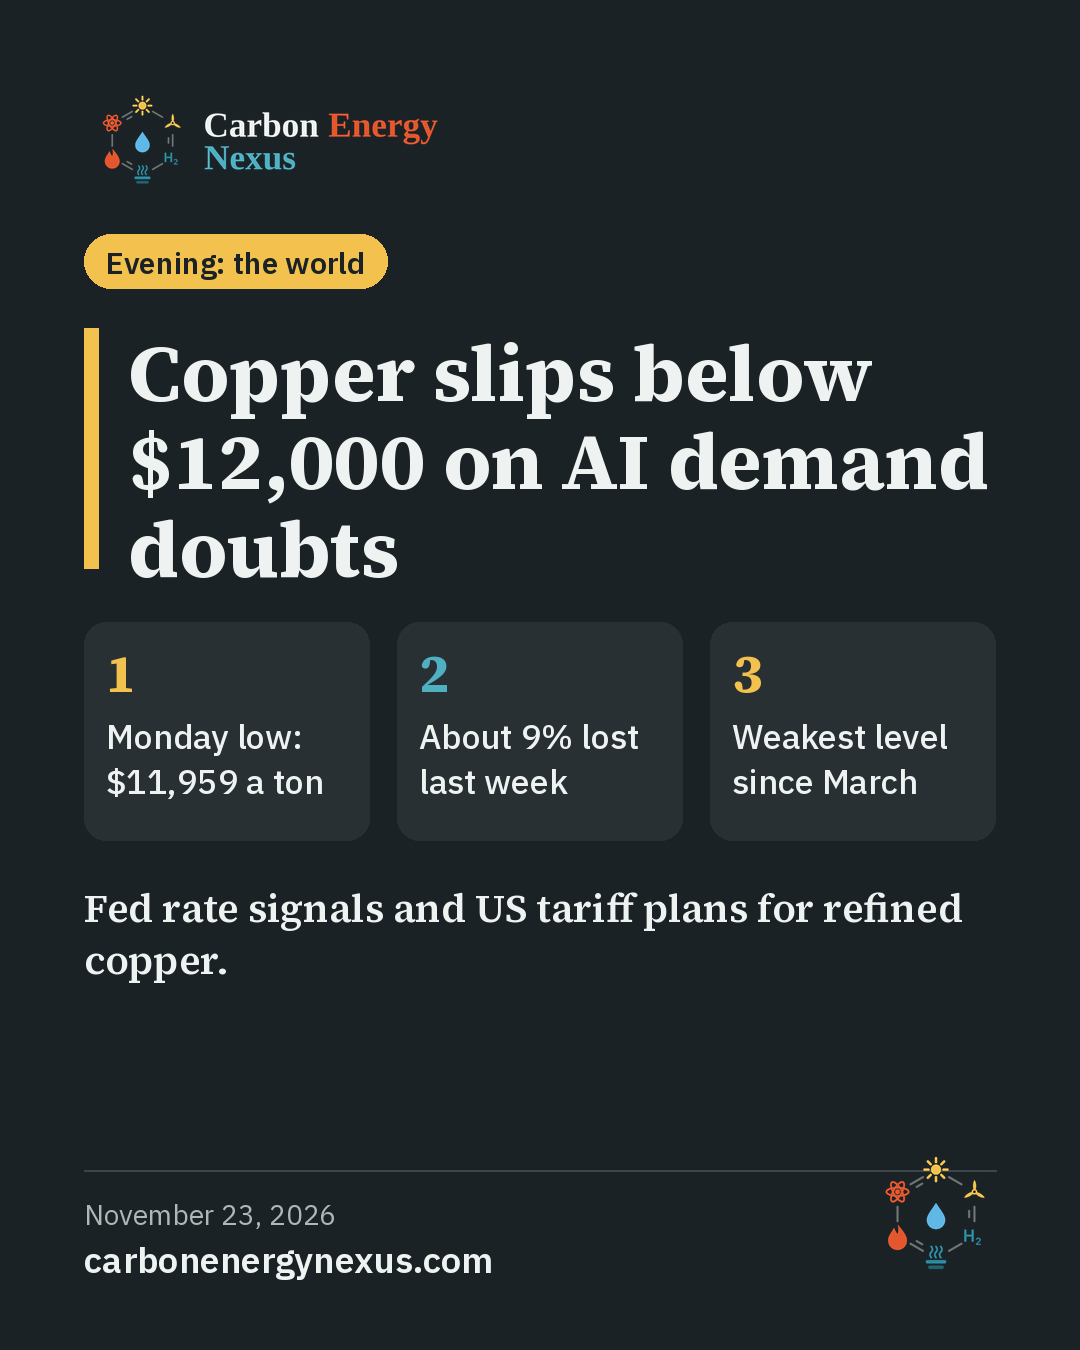
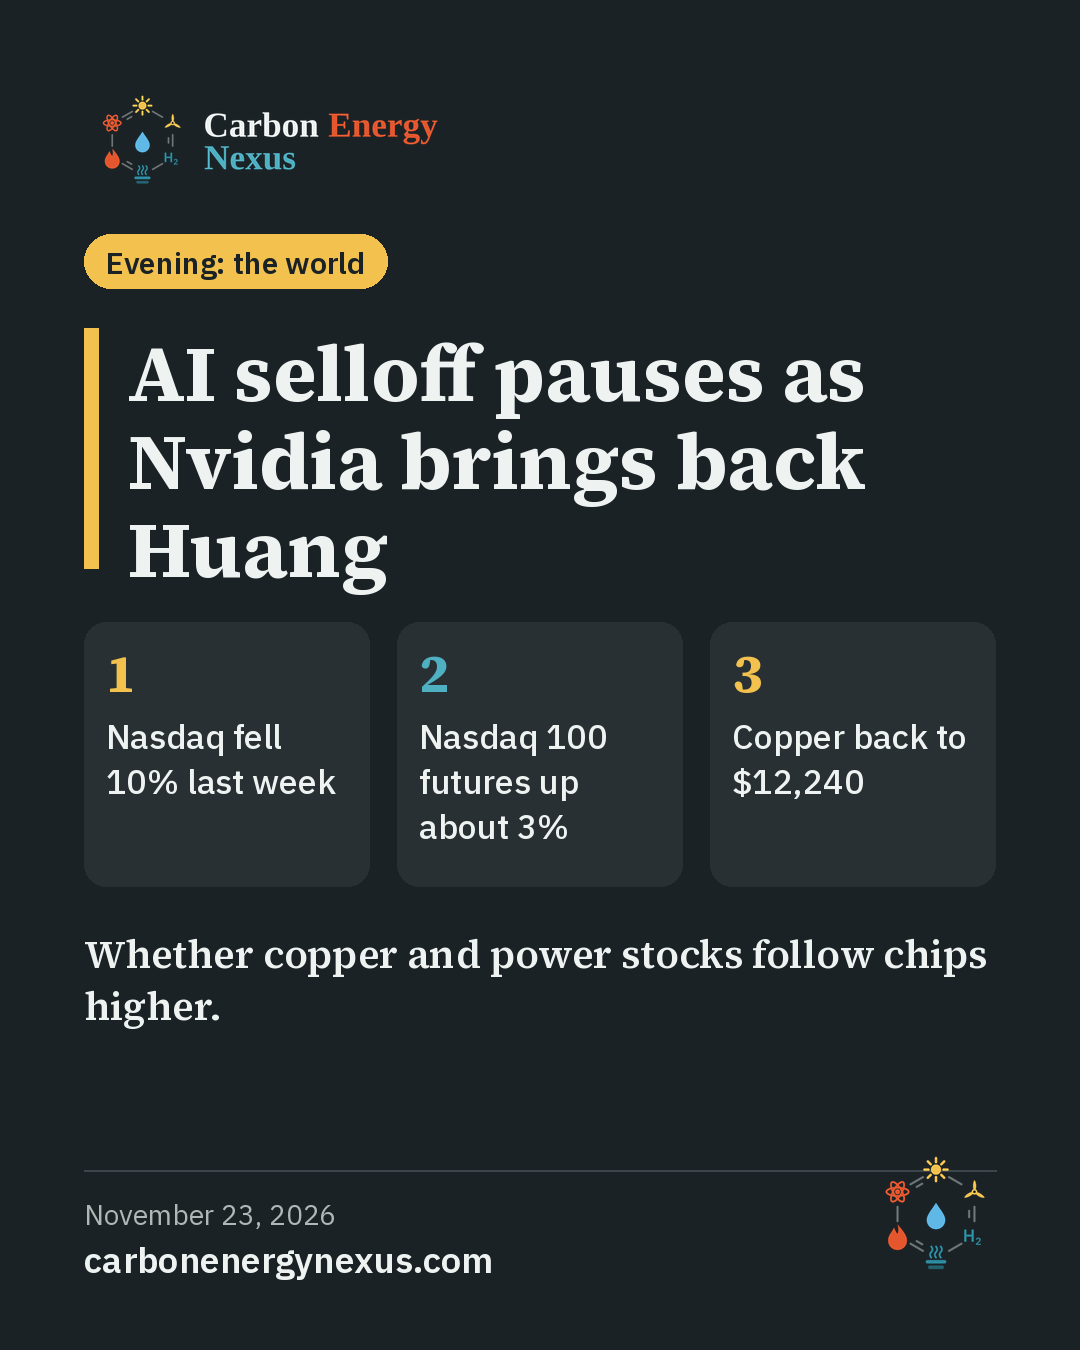
Nov 23 update: AI selloff pauses as Nvidia reinstates Huang; copper steadies; evening post
Claude-Session: https://claude.ai/code/session_01VeWbxxyf2Y2YHwziAL5TiY

diff --git a/index.html b/index.html
@@ -29,7 +29,7 @@
 <link rel="preload" href="assets/fonts/source-serif-4-latin-600-normal.woff2" as="font" type="font/woff2" crossorigin>
 <link rel="stylesheet" href="assets/style.css?v=a42ad177">
 
-<script type="application/ld+json">{"@context": "https://schema.org", "@graph": [{"@type": "NewsMediaOrganization", "@id": "https://carbonenergynexus.com/#org", "name": "Carbon Energy Nexus", "url": "https://carbonenergynexus.com/", "logo": {"@type": "ImageObject", "url": "https://carbonenergynexus.com/brand/cen-icon-512.png", "width": 512, "height": 512}, "description": "Sourced daily intelligence on carbon, energy, water and capital: projects, policy, markets and research.", "sameAs": ["https://www.facebook.com/profile.php?id=61596702510478", "https://www.instagram.com/carbonenergynexus/", "https://www.linkedin.com/company/carbonenergynexus/"]}, {"@type": "NewsArticle", "@id": "https://carbonenergynexus.com/#article", "headline": "COP31 ends without a deal, and its carbon capture and electrification goals fall with it", "description": "Two extra days in Antalya, but no cover decision. COP31 closed on Sunday after the EU and others rejected a text that named no fossil fuels, taking a draft 500 Mt a year capture goal and a 35% electrification target with it.", "url": "https://carbonenergynexus.com/", "mainEntityOfPage": "https://carbonenergynexus.com/", "image": ["https://carbonenergynexus.com/social/2026-11-23.png"], "datePublished": "2026-11-23T05:30:00-06:00", "dateModified": "2026-11-23T05:30:00-06:00", "inLanguage": "en-US", "isAccessibleForFree": true, "articleSection": ["Climate talks", "Capital", "Regulation", "Water", "Projects"], "author": {"@id": "https://carbonenergynexus.com/#org"}, "publisher": {"@id": "https://carbonenergynexus.com/#org"}}, {"@type": "WebSite", "@id": "https://carbonenergynexus.com/#site", "name": "Carbon Energy Nexus", "url": "https://carbonenergynexus.com/", "publisher": {"@id": "https://carbonenergynexus.com/#org"}, "inLanguage": "en-US"}]}</script>
+<script type="application/ld+json">{"@context": "https://schema.org", "@graph": [{"@type": "NewsMediaOrganization", "@id": "https://carbonenergynexus.com/#org", "name": "Carbon Energy Nexus", "url": "https://carbonenergynexus.com/", "logo": {"@type": "ImageObject", "url": "https://carbonenergynexus.com/brand/cen-icon-512.png", "width": 512, "height": 512}, "description": "Sourced daily intelligence on carbon, energy, water and capital: projects, policy, markets and research.", "sameAs": ["https://www.facebook.com/profile.php?id=61596702510478", "https://www.instagram.com/carbonenergynexus/", "https://www.linkedin.com/company/carbonenergynexus/"]}, {"@type": "NewsArticle", "@id": "https://carbonenergynexus.com/#article", "headline": "COP31 ends without a deal, and its carbon capture and electrification goals fall with it", "description": "Two extra days in Antalya, but no cover decision. COP31 closed on Sunday after the EU and others rejected a text that named no fossil fuels, taking a draft 500 Mt a year capture goal and a 35% electrification target with it.", "url": "https://carbonenergynexus.com/", "mainEntityOfPage": "https://carbonenergynexus.com/", "image": ["https://carbonenergynexus.com/social/2026-11-23.png"], "datePublished": "2026-11-23T05:30:00-06:00", "dateModified": "2026-11-23T05:30:00-06:00", "inLanguage": "en-US", "isAccessibleForFree": true, "articleSection": ["Climate talks", "Capital", "Markets", "Regulation", "Water", "Projects"], "author": {"@id": "https://carbonenergynexus.com/#org"}, "publisher": {"@id": "https://carbonenergynexus.com/#org"}}, {"@type": "WebSite", "@id": "https://carbonenergynexus.com/#site", "name": "Carbon Energy Nexus", "url": "https://carbonenergynexus.com/", "publisher": {"@id": "https://carbonenergynexus.com/#org"}, "inLanguage": "en-US"}]}</script>
 </head>
 <body>
 <a class="skip" href="#main">Skip to content</a>
@@ -84,7 +84,7 @@
    <div class="sig c1"><p class="sig-l">Electrification pledge</p><p class="sig-v">75+ countries</p><p class="sig-n">Voluntary 35% by 2035 goal, per the UN</p><p class="sig-s"><a href="https://abcnews.com/Technology/climate-conference-ends-signature-agreement-countries-clash-fossil/story?id=138359179" rel="noopener">ABC News, Nov 22, 2026</a></p></div>
    <div class="sig c2"><p class="sig-l">Loss and damage fund</p><p class="sig-v">$2.8bn asked</p><p class="sig-n">176 requests vs a $342m allocation</p><p class="sig-s"><a href="https://theplanetbrief.com/carbon/climate-policy/cop31-outcomes-antalya-pact-2026/" rel="noopener">The Planet Brief, Nov 22, 2026</a></p></div>
    <div class="sig c3"><p class="sig-l">US Senate permitting vote</p><p class="sig-v">62-33</p><p class="sig-n">S. 5653 passed Nov 19; House next</p><p class="sig-s"><a href="https://www.newson6.com/national-politics-oklahoma/senate-passes-permitting-reform-bill-just-as-its-chief-advocate-makes-for-the-exit" rel="noopener">NewsOn6, Nov 20, 2026</a></p></div>
-   <div class="sig c0"><p class="sig-l">LME copper, Monday low</p><p class="sig-v">$11,959/t</p><p class="sig-n">Weakest since March after a 9% week</p><p class="sig-s"><a href="https://www.investing.com/news/commodities-news/lme-copper-briefly-falls-below-12000-a-ton-as-tech-selloff-deepens-5044280" rel="noopener">Investing.com, Nov 22, 2026</a></p></div>
+   <div class="sig c0"><p class="sig-l">Nasdaq, last week</p><p class="sig-v">-10%</p><p class="sig-n">Worst week since March 2020; futures up ~3% Monday</p><p class="sig-s"><a href="https://finance.yahoo.com/markets/stocks/articles/us-futures-bounce-while-asia-234419517.html" rel="noopener">Reuters via Yahoo Finance, Nov 23, 2026</a></p></div>
    <div class="sig c1"><p class="sig-l">Southwest hydropower</p><p class="sig-v">-28%</p><p class="sig-n">Apr to Aug vs 10 year average, EIA</p><p class="sig-s"><a href="https://www.technologyreview.com/2026/11/17/1148742/hydropower-drought-colorado-river/" rel="noopener">MIT Technology Review, Nov 17, 2026</a></p></div>
   </div>
  </div>
@@ -102,6 +102,16 @@
     <dl class="use-sm"><div><dt>Investors</dt><dd>Permit certainty is the capital story. Watch whether the anti rescission clause survives the House.</dd></div><div><dt>Data center developers</dt><dd>Budget for full grid upgrade costs in US sites if this becomes law.</dd></div></dl>
    </div>
    <p class="src">Sources: <a href="https://www.naco.org/news/us-senate-passes-bipartisan-american-affordability-and-jobs-act" rel="noopener">NACo, Nov 20, 2026</a>; <a href="https://www.newson6.com/national-politics-oklahoma/senate-passes-permitting-reform-bill-just-as-its-chief-advocate-makes-for-the-exit" rel="noopener">NewsOn6, Nov 20, 2026</a>; <a href="https://dakotafreepress.com/2026/11/20/senate-approves-permitting-reform-bill-heads-to-house-for-debate/" rel="noopener">Dakota Free Press, Nov 20, 2026</a></p>
+  </article>
+  
+  <article class="brief" id="markets">
+   <p class="lane"><span class="chip lane-markets">Markets</span></p>
+   <h3>AI selloff pauses as Nvidia reinstates Jensen Huang; copper steadies</h3>
+   <div class="brief-body">
+    <p>Nvidia&#39;s board unanimously reinstated Jensen Huang as president and CEO on Nov 23, effective immediately, saying it had received input from senior levels of the US government and was confident the move poses no national security risk; an independent committee&#39;s investigation continues, the company said. Markets had already turned: Nvidia traded 8.69% higher before the open at 6:35 a.m. ET, and S&amp;P 500 futures were up about 2.3% and Nasdaq 100 futures about 3% after the Nasdaq fell 10% last week, its worst week since March 2020. Reuters noted that data center spending has been mostly borrowed, and that the selloff reached electricity generators as well as chipmakers. LME copper, which slid below $12,000 early Monday, was up 0.66% at $12,240.50 a ton by 03:30 GMT. Taiwan tightened short selling rules and Chinese exchanges eased margin requirements.</p>
+    <dl class="use-sm"><div><dt>Investors</dt><dd>Copper and power names traded as AI proxies last week. Watch whether they follow chips back or stay tied to rates and the dollar.</dd></div><div><dt>Developers</dt><dd>Data center power and grid deals priced in the selloff may reprice quickly. Check counterparty financing, not just headlines.</dd></div></dl>
+   </div>
+   <p class="src">Sources: <a href="https://www.sec.gov/Archives/edgar/data/0001045810/000104581026000090/nov23pressrelease.htm" rel="noopener">Nvidia press release (SEC filing), Nov 23, 2026</a>; <a href="https://finance.yahoo.com/markets/stocks/articles/us-futures-bounce-while-asia-234419517.html" rel="noopener">Reuters via Yahoo Finance, Nov 23, 2026</a>; <a href="https://finance.yahoo.com/markets/live/stock-market-today-monday-november-23-dow-sp-500-nasdaq-091118583.html" rel="noopener">Yahoo Finance live, Nov 23, 2026</a>; <a href="https://finance.yahoo.com/markets/stocks/article/nvidia-stock-jumps-as-dc-makes-stunning-u-turn-on-jensen-huang-113419437.html" rel="noopener">Yahoo Finance, Nov 23, 2026</a>; <a href="https://www.brecorder.com/news/40450320/copper-sinks-below-12000-as-jitters-over-ai-rate-hikes-eclipse-tight-supply" rel="noopener">Reuters via Business Recorder, Nov 23, 2026</a></p>
   </article>
   
   <article class="brief" id="world">
@@ -208,7 +218,7 @@
 <section class="minerals" id="minerals">
  <div class="wrap">
   <h2 class="sh">Critical minerals and mining</h2>
-  <p class="intro">Copper opened the week below $12,000 a ton, while policy deadlines set the pace elsewhere: China&#39;s pause on its gallium, germanium and antimony export ban to the US ends Nov 27, and Indonesia plans a smaller 2027 nickel ore quota.</p>
+  <p class="intro">Copper opened the week below $12,000 a ton, then steadied as AI stocks rebounded, while policy deadlines set the pace elsewhere: China&#39;s pause on its gallium, germanium and antimony export ban to the US ends Nov 27, and Indonesia plans a smaller 2027 nickel ore quota.</p>
   <div class="min-grid">
   
    <article class="mineral m0">
@@ -227,9 +237,9 @@
   
    <article class="mineral m2">
     <div class="elem"><span class="sym">Cu</span><span class="ename">Copper</span></div>
-    <h3>LME copper dips below $12,000 a ton after its worst week in 19 months</h3>
-    <p>Three month LME copper fell to about $11,959 a ton early Monday, its weakest since March, then recovered to $12,240.50 by 03:40 GMT, Investing.com reported. It lost about 9% last week on doubts over AI data center spending, a stronger dollar and rate expectations. The record was near $15,000 in September, Business Upturn noted, and uncertainty over US tariffs on refined copper persists.</p>
-    <p class="src">Sources: <a href="https://www.investing.com/news/commodities-news/lme-copper-briefly-falls-below-12000-a-ton-as-tech-selloff-deepens-5044280" rel="noopener">Investing.com, Nov 22, 2026</a>; <a href="https://businessupturn.com/finance/stock-market/copper-slips-below-12-000-a-ton-on-lme-after-9-weekly-fall-as-doubts-over-ai-demand-deepen" rel="noopener">Business Upturn, Nov 23, 2026</a></p>
+    <h3>Copper dips below $12,000, then steadies as AI stocks rebound</h3>
+    <p>Three month LME copper fell to about $11,959 a ton early Monday, its weakest since March, then was up 0.66% at $12,240.50 by 03:30 GMT, Reuters reported. It lost about 9% last week on doubts over AI data center spending, a stronger dollar and US rate hike expectations, while Chinese spot premiums stayed at records. US stock futures rallied on Monday and Nvidia later reinstated CEO Jensen Huang. The record was near $15,000 in September, Business Upturn noted.</p>
+    <p class="src">Sources: <a href="https://www.brecorder.com/news/40450320/copper-sinks-below-12000-as-jitters-over-ai-rate-hikes-eclipse-tight-supply" rel="noopener">Reuters via Business Recorder, Nov 23, 2026</a>; <a href="https://www.investing.com/news/commodities-news/lme-copper-briefly-falls-below-12000-a-ton-as-tech-selloff-deepens-5044280" rel="noopener">Investing.com, Nov 22, 2026</a>; <a href="https://businessupturn.com/finance/stock-market/copper-slips-below-12-000-a-ton-on-lme-after-9-weekly-fall-as-doubts-over-ai-demand-deepen" rel="noopener">Business Upturn, Nov 23, 2026</a></p>
    </article>
   
    <article class="mineral m3">

diff --git a/archive/2026-11-23.html b/archive/2026-11-23.html
@@ -29,7 +29,7 @@
 <link rel="preload" href="../assets/fonts/source-serif-4-latin-600-normal.woff2" as="font" type="font/woff2" crossorigin>
 <link rel="stylesheet" href="../assets/style.css?v=a42ad177">
 
-<script type="application/ld+json">{"@context": "https://schema.org", "@graph": [{"@type": "NewsMediaOrganization", "@id": "https://carbonenergynexus.com/#org", "name": "Carbon Energy Nexus", "url": "https://carbonenergynexus.com/", "logo": {"@type": "ImageObject", "url": "https://carbonenergynexus.com/brand/cen-icon-512.png", "width": 512, "height": 512}, "description": "Sourced daily intelligence on carbon, energy, water and capital: projects, policy, markets and research.", "sameAs": ["https://www.facebook.com/profile.php?id=61596702510478", "https://www.instagram.com/carbonenergynexus/", "https://www.linkedin.com/company/carbonenergynexus/"]}, {"@type": "NewsArticle", "@id": "https://carbonenergynexus.com/archive/2026-11-23.html#article", "headline": "COP31 ends without a deal, and its carbon capture and electrification goals fall with it", "description": "Two extra days in Antalya, but no cover decision. COP31 closed on Sunday after the EU and others rejected a text that named no fossil fuels, taking a draft 500 Mt a year capture goal and a 35% electrification target with it.", "url": "https://carbonenergynexus.com/archive/2026-11-23.html", "mainEntityOfPage": "https://carbonenergynexus.com/archive/2026-11-23.html", "image": ["https://carbonenergynexus.com/social/2026-11-23.png"], "datePublished": "2026-11-23T05:30:00-06:00", "dateModified": "2026-11-23T05:30:00-06:00", "inLanguage": "en-US", "isAccessibleForFree": true, "articleSection": ["Climate talks", "Capital", "Regulation", "Water", "Projects"], "author": {"@id": "https://carbonenergynexus.com/#org"}, "publisher": {"@id": "https://carbonenergynexus.com/#org"}}]}</script>
+<script type="application/ld+json">{"@context": "https://schema.org", "@graph": [{"@type": "NewsMediaOrganization", "@id": "https://carbonenergynexus.com/#org", "name": "Carbon Energy Nexus", "url": "https://carbonenergynexus.com/", "logo": {"@type": "ImageObject", "url": "https://carbonenergynexus.com/brand/cen-icon-512.png", "width": 512, "height": 512}, "description": "Sourced daily intelligence on carbon, energy, water and capital: projects, policy, markets and research.", "sameAs": ["https://www.facebook.com/profile.php?id=61596702510478", "https://www.instagram.com/carbonenergynexus/", "https://www.linkedin.com/company/carbonenergynexus/"]}, {"@type": "NewsArticle", "@id": "https://carbonenergynexus.com/archive/2026-11-23.html#article", "headline": "COP31 ends without a deal, and its carbon capture and electrification goals fall with it", "description": "Two extra days in Antalya, but no cover decision. COP31 closed on Sunday after the EU and others rejected a text that named no fossil fuels, taking a draft 500 Mt a year capture goal and a 35% electrification target with it.", "url": "https://carbonenergynexus.com/archive/2026-11-23.html", "mainEntityOfPage": "https://carbonenergynexus.com/archive/2026-11-23.html", "image": ["https://carbonenergynexus.com/social/2026-11-23.png"], "datePublished": "2026-11-23T05:30:00-06:00", "dateModified": "2026-11-23T05:30:00-06:00", "inLanguage": "en-US", "isAccessibleForFree": true, "articleSection": ["Climate talks", "Capital", "Markets", "Regulation", "Water", "Projects"], "author": {"@id": "https://carbonenergynexus.com/#org"}, "publisher": {"@id": "https://carbonenergynexus.com/#org"}}]}</script>
 </head>
 <body>
 <a class="skip" href="#main">Skip to content</a>
@@ -84,7 +84,7 @@
    <div class="sig c1"><p class="sig-l">Electrification pledge</p><p class="sig-v">75+ countries</p><p class="sig-n">Voluntary 35% by 2035 goal, per the UN</p><p class="sig-s"><a href="https://abcnews.com/Technology/climate-conference-ends-signature-agreement-countries-clash-fossil/story?id=138359179" rel="noopener">ABC News, Nov 22, 2026</a></p></div>
    <div class="sig c2"><p class="sig-l">Loss and damage fund</p><p class="sig-v">$2.8bn asked</p><p class="sig-n">176 requests vs a $342m allocation</p><p class="sig-s"><a href="https://theplanetbrief.com/carbon/climate-policy/cop31-outcomes-antalya-pact-2026/" rel="noopener">The Planet Brief, Nov 22, 2026</a></p></div>
    <div class="sig c3"><p class="sig-l">US Senate permitting vote</p><p class="sig-v">62-33</p><p class="sig-n">S. 5653 passed Nov 19; House next</p><p class="sig-s"><a href="https://www.newson6.com/national-politics-oklahoma/senate-passes-permitting-reform-bill-just-as-its-chief-advocate-makes-for-the-exit" rel="noopener">NewsOn6, Nov 20, 2026</a></p></div>
-   <div class="sig c0"><p class="sig-l">LME copper, Monday low</p><p class="sig-v">$11,959/t</p><p class="sig-n">Weakest since March after a 9% week</p><p class="sig-s"><a href="https://www.investing.com/news/commodities-news/lme-copper-briefly-falls-below-12000-a-ton-as-tech-selloff-deepens-5044280" rel="noopener">Investing.com, Nov 22, 2026</a></p></div>
+   <div class="sig c0"><p class="sig-l">Nasdaq, last week</p><p class="sig-v">-10%</p><p class="sig-n">Worst week since March 2020; futures up ~3% Monday</p><p class="sig-s"><a href="https://finance.yahoo.com/markets/stocks/articles/us-futures-bounce-while-asia-234419517.html" rel="noopener">Reuters via Yahoo Finance, Nov 23, 2026</a></p></div>
    <div class="sig c1"><p class="sig-l">Southwest hydropower</p><p class="sig-v">-28%</p><p class="sig-n">Apr to Aug vs 10 year average, EIA</p><p class="sig-s"><a href="https://www.technologyreview.com/2026/11/17/1148742/hydropower-drought-colorado-river/" rel="noopener">MIT Technology Review, Nov 17, 2026</a></p></div>
   </div>
  </div>
@@ -102,6 +102,16 @@
     <dl class="use-sm"><div><dt>Investors</dt><dd>Permit certainty is the capital story. Watch whether the anti rescission clause survives the House.</dd></div><div><dt>Data center developers</dt><dd>Budget for full grid upgrade costs in US sites if this becomes law.</dd></div></dl>
    </div>
    <p class="src">Sources: <a href="https://www.naco.org/news/us-senate-passes-bipartisan-american-affordability-and-jobs-act" rel="noopener">NACo, Nov 20, 2026</a>; <a href="https://www.newson6.com/national-politics-oklahoma/senate-passes-permitting-reform-bill-just-as-its-chief-advocate-makes-for-the-exit" rel="noopener">NewsOn6, Nov 20, 2026</a>; <a href="https://dakotafreepress.com/2026/11/20/senate-approves-permitting-reform-bill-heads-to-house-for-debate/" rel="noopener">Dakota Free Press, Nov 20, 2026</a></p>
+  </article>
+  
+  <article class="brief" id="markets">
+   <p class="lane"><span class="chip lane-markets">Markets</span></p>
+   <h3>AI selloff pauses as Nvidia reinstates Jensen Huang; copper steadies</h3>
+   <div class="brief-body">
+    <p>Nvidia&#39;s board unanimously reinstated Jensen Huang as president and CEO on Nov 23, effective immediately, saying it had received input from senior levels of the US government and was confident the move poses no national security risk; an independent committee&#39;s investigation continues, the company said. Markets had already turned: Nvidia traded 8.69% higher before the open at 6:35 a.m. ET, and S&amp;P 500 futures were up about 2.3% and Nasdaq 100 futures about 3% after the Nasdaq fell 10% last week, its worst week since March 2020. Reuters noted that data center spending has been mostly borrowed, and that the selloff reached electricity generators as well as chipmakers. LME copper, which slid below $12,000 early Monday, was up 0.66% at $12,240.50 a ton by 03:30 GMT. Taiwan tightened short selling rules and Chinese exchanges eased margin requirements.</p>
+    <dl class="use-sm"><div><dt>Investors</dt><dd>Copper and power names traded as AI proxies last week. Watch whether they follow chips back or stay tied to rates and the dollar.</dd></div><div><dt>Developers</dt><dd>Data center power and grid deals priced in the selloff may reprice quickly. Check counterparty financing, not just headlines.</dd></div></dl>
+   </div>
+   <p class="src">Sources: <a href="https://www.sec.gov/Archives/edgar/data/0001045810/000104581026000090/nov23pressrelease.htm" rel="noopener">Nvidia press release (SEC filing), Nov 23, 2026</a>; <a href="https://finance.yahoo.com/markets/stocks/articles/us-futures-bounce-while-asia-234419517.html" rel="noopener">Reuters via Yahoo Finance, Nov 23, 2026</a>; <a href="https://finance.yahoo.com/markets/live/stock-market-today-monday-november-23-dow-sp-500-nasdaq-091118583.html" rel="noopener">Yahoo Finance live, Nov 23, 2026</a>; <a href="https://finance.yahoo.com/markets/stocks/article/nvidia-stock-jumps-as-dc-makes-stunning-u-turn-on-jensen-huang-113419437.html" rel="noopener">Yahoo Finance, Nov 23, 2026</a>; <a href="https://www.brecorder.com/news/40450320/copper-sinks-below-12000-as-jitters-over-ai-rate-hikes-eclipse-tight-supply" rel="noopener">Reuters via Business Recorder, Nov 23, 2026</a></p>
   </article>
   
   <article class="brief" id="world">
@@ -208,7 +218,7 @@
 <section class="minerals" id="minerals">
  <div class="wrap">
   <h2 class="sh">Critical minerals and mining</h2>
-  <p class="intro">Copper opened the week below $12,000 a ton, while policy deadlines set the pace elsewhere: China&#39;s pause on its gallium, germanium and antimony export ban to the US ends Nov 27, and Indonesia plans a smaller 2027 nickel ore quota.</p>
+  <p class="intro">Copper opened the week below $12,000 a ton, then steadied as AI stocks rebounded, while policy deadlines set the pace elsewhere: China&#39;s pause on its gallium, germanium and antimony export ban to the US ends Nov 27, and Indonesia plans a smaller 2027 nickel ore quota.</p>
   <div class="min-grid">
   
    <article class="mineral m0">
@@ -227,9 +237,9 @@
   
    <article class="mineral m2">
     <div class="elem"><span class="sym">Cu</span><span class="ename">Copper</span></div>
-    <h3>LME copper dips below $12,000 a ton after its worst week in 19 months</h3>
-    <p>Three month LME copper fell to about $11,959 a ton early Monday, its weakest since March, then recovered to $12,240.50 by 03:40 GMT, Investing.com reported. It lost about 9% last week on doubts over AI data center spending, a stronger dollar and rate expectations. The record was near $15,000 in September, Business Upturn noted, and uncertainty over US tariffs on refined copper persists.</p>
-    <p class="src">Sources: <a href="https://www.investing.com/news/commodities-news/lme-copper-briefly-falls-below-12000-a-ton-as-tech-selloff-deepens-5044280" rel="noopener">Investing.com, Nov 22, 2026</a>; <a href="https://businessupturn.com/finance/stock-market/copper-slips-below-12-000-a-ton-on-lme-after-9-weekly-fall-as-doubts-over-ai-demand-deepen" rel="noopener">Business Upturn, Nov 23, 2026</a></p>
+    <h3>Copper dips below $12,000, then steadies as AI stocks rebound</h3>
+    <p>Three month LME copper fell to about $11,959 a ton early Monday, its weakest since March, then was up 0.66% at $12,240.50 by 03:30 GMT, Reuters reported. It lost about 9% last week on doubts over AI data center spending, a stronger dollar and US rate hike expectations, while Chinese spot premiums stayed at records. US stock futures rallied on Monday and Nvidia later reinstated CEO Jensen Huang. The record was near $15,000 in September, Business Upturn noted.</p>
+    <p class="src">Sources: <a href="https://www.brecorder.com/news/40450320/copper-sinks-below-12000-as-jitters-over-ai-rate-hikes-eclipse-tight-supply" rel="noopener">Reuters via Business Recorder, Nov 23, 2026</a>; <a href="https://www.investing.com/news/commodities-news/lme-copper-briefly-falls-below-12000-a-ton-as-tech-selloff-deepens-5044280" rel="noopener">Investing.com, Nov 22, 2026</a>; <a href="https://businessupturn.com/finance/stock-market/copper-slips-below-12-000-a-ton-on-lme-after-9-weekly-fall-as-doubts-over-ai-demand-deepen" rel="noopener">Business Upturn, Nov 23, 2026</a></p>
    </article>
   
    <article class="mineral m3">
